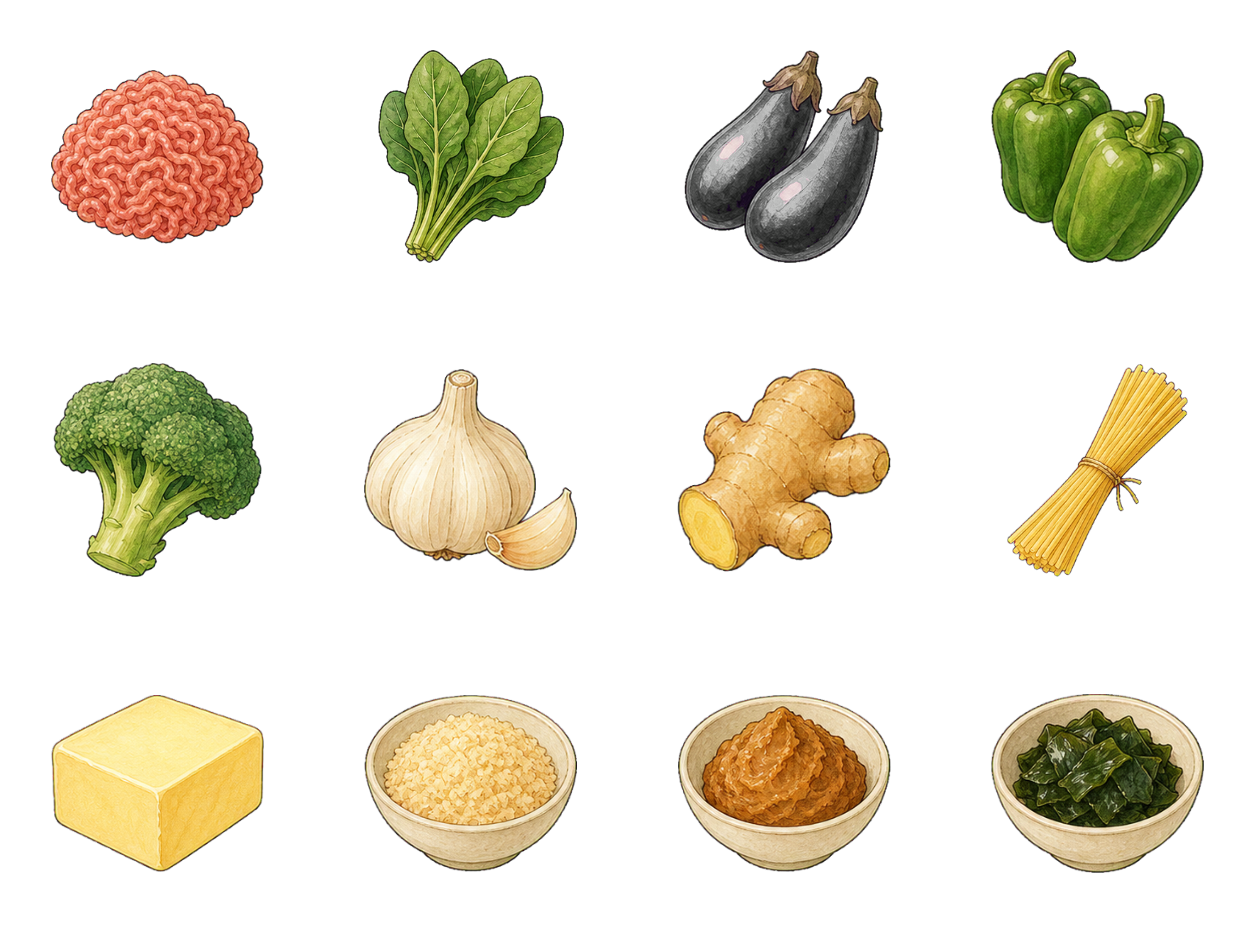
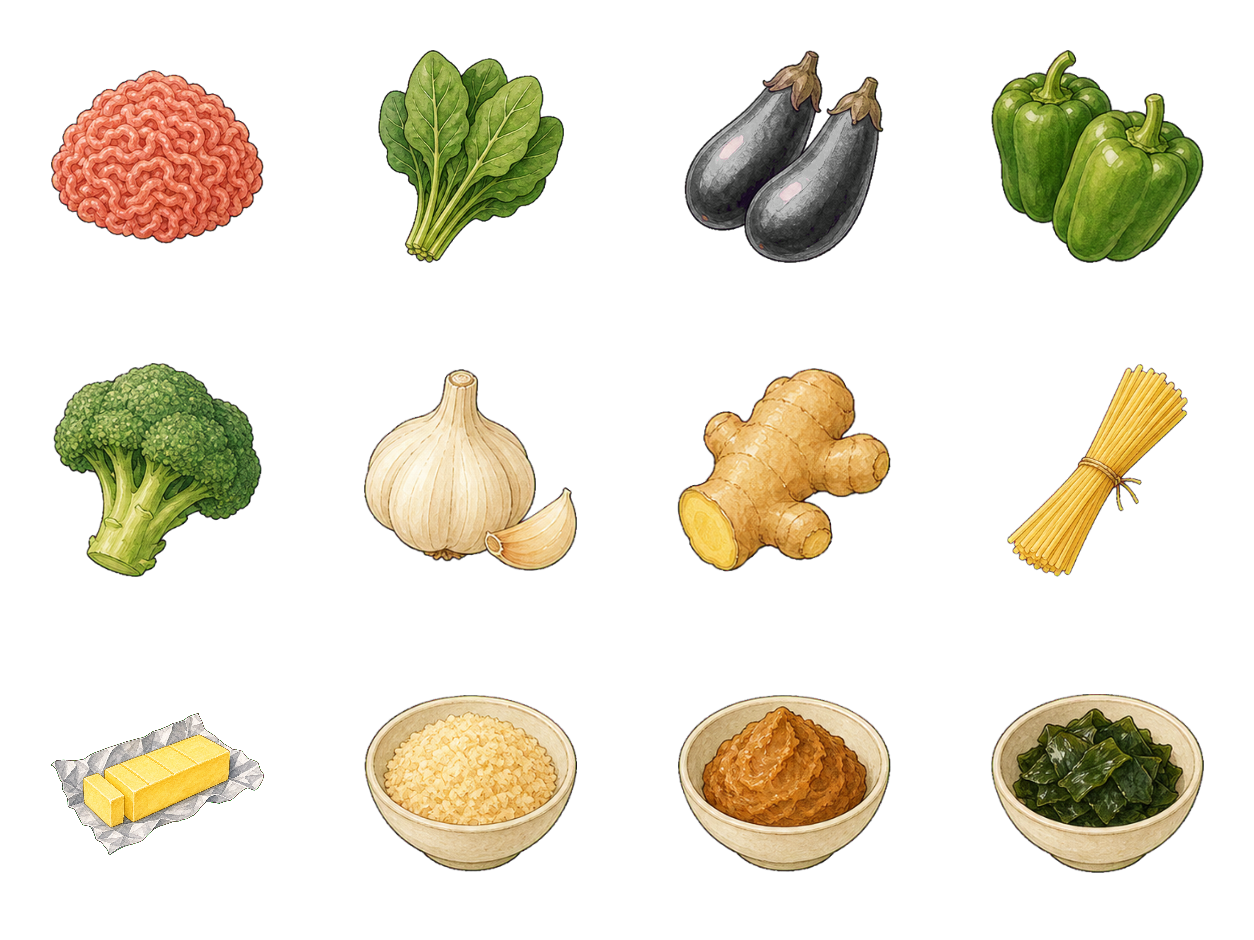
バターを銀紙の包みに描き直す（黄色い四角トリオの最後）
バター・マーガリン・卵豆腐が3つとも同じ黄色い直方体で、表示サイズでは
見分けられなかった問題の残り1つ。マーガリンと卵豆腐は容器付きになって
解決済みだったが、バターだけは別シート ingredient-atlas-recipe.png に
いたため取り残されていた。

銀紙を開いた上に切れ目の入った棒が乗る形になり、110pxで並べても
マーガリン（カップ）・卵豆腐（トレー）と取り違えない。

同じシートの他11マスは1pxも変わっていないことを確認済み。

Changed region(s): [[0.0311, 0.7404, 0.2177, 0.9255]]

diff --git a/sw.js b/sw.js
@@ -4,7 +4,7 @@
 // このファイル自身の内容から書き込む。中身が変わればこのファイルも変わるので、
 // ブラウザが新しい Service Worker と見なして入れ替え、古いキャッシュを捨てる。
 // 手で番号を上げる必要はない。
-const VERSION = "519e44d5";
+const VERSION = "259d8a54";
 const CACHE = `fridge-leftovers-${VERSION}`;
 
 // index.html が参照するファイル。?v= 付きの実物のパスでないとキャッシュに
@@ -14,7 +14,7 @@ const REFERENCED = [
   "./manifest.json?v=b750de2d",
   "./assets/icons/favicon-32.png?v=a1371f08",
   "./assets/icons/apple-touch-icon.png?v=0db390f0",
-  "./styles.css?v=b6250bc8",
+  "./styles.css?v=542ace8d",
   "./app.js?v=8b9604df"
 ];
 // ここまで自動更新

diff --git a/index.html b/index.html
@@ -12,7 +12,7 @@
   <meta name="apple-mobile-web-app-capable" content="yes">
   <meta name="apple-mobile-web-app-status-bar-style" content="default">
   <meta name="apple-mobile-web-app-title" content="冷蔵庫の現在地">
-  <link rel="stylesheet" href="styles.css?v=b6250bc8">
+  <link rel="stylesheet" href="styles.css?v=542ace8d">
   <script src="vendor/tesseract/tesseract.min.js?v=7.0.0" defer></script>
   <script src="app.js?v=8b9604df" defer></script>
 </head>

diff --git a/styles.css b/styles.css
@@ -1013,7 +1013,7 @@ body.is-fridge-dragging .food-consume-station {
 }
 
 .ingredient-illustration-recipe {
-  background-image: url("assets/ingredient-atlas-recipe.png?v=20260727-2");
+  background-image: url("assets/ingredient-atlas-recipe.png?v=20260801-1");
 }
 
 .ingredient-illustration-expanded {
